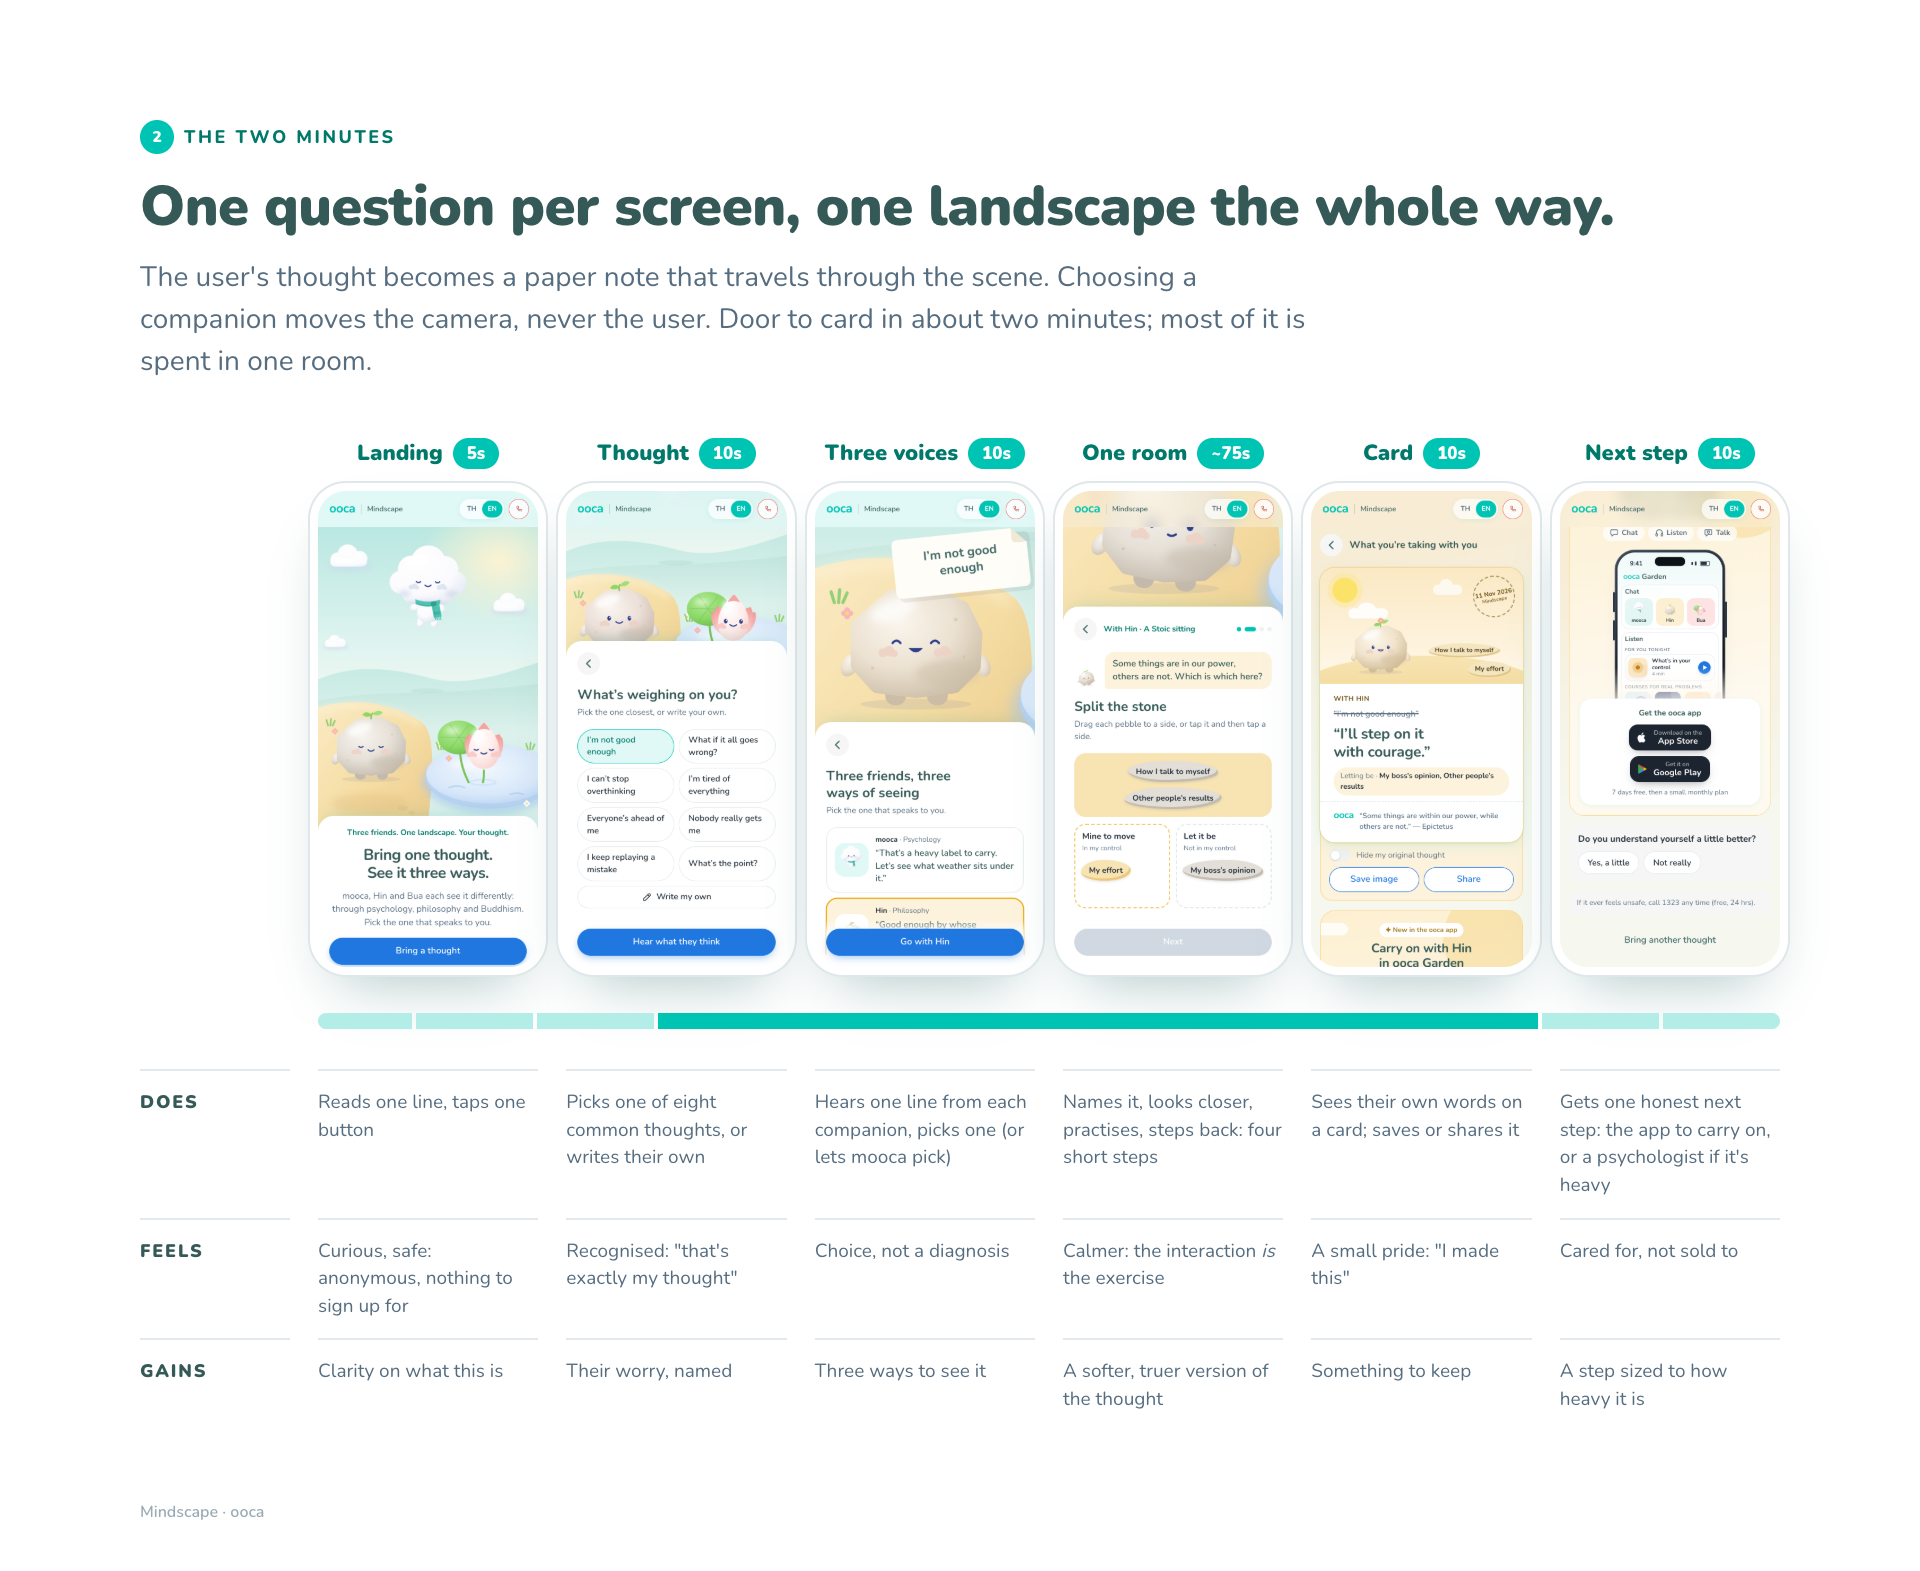
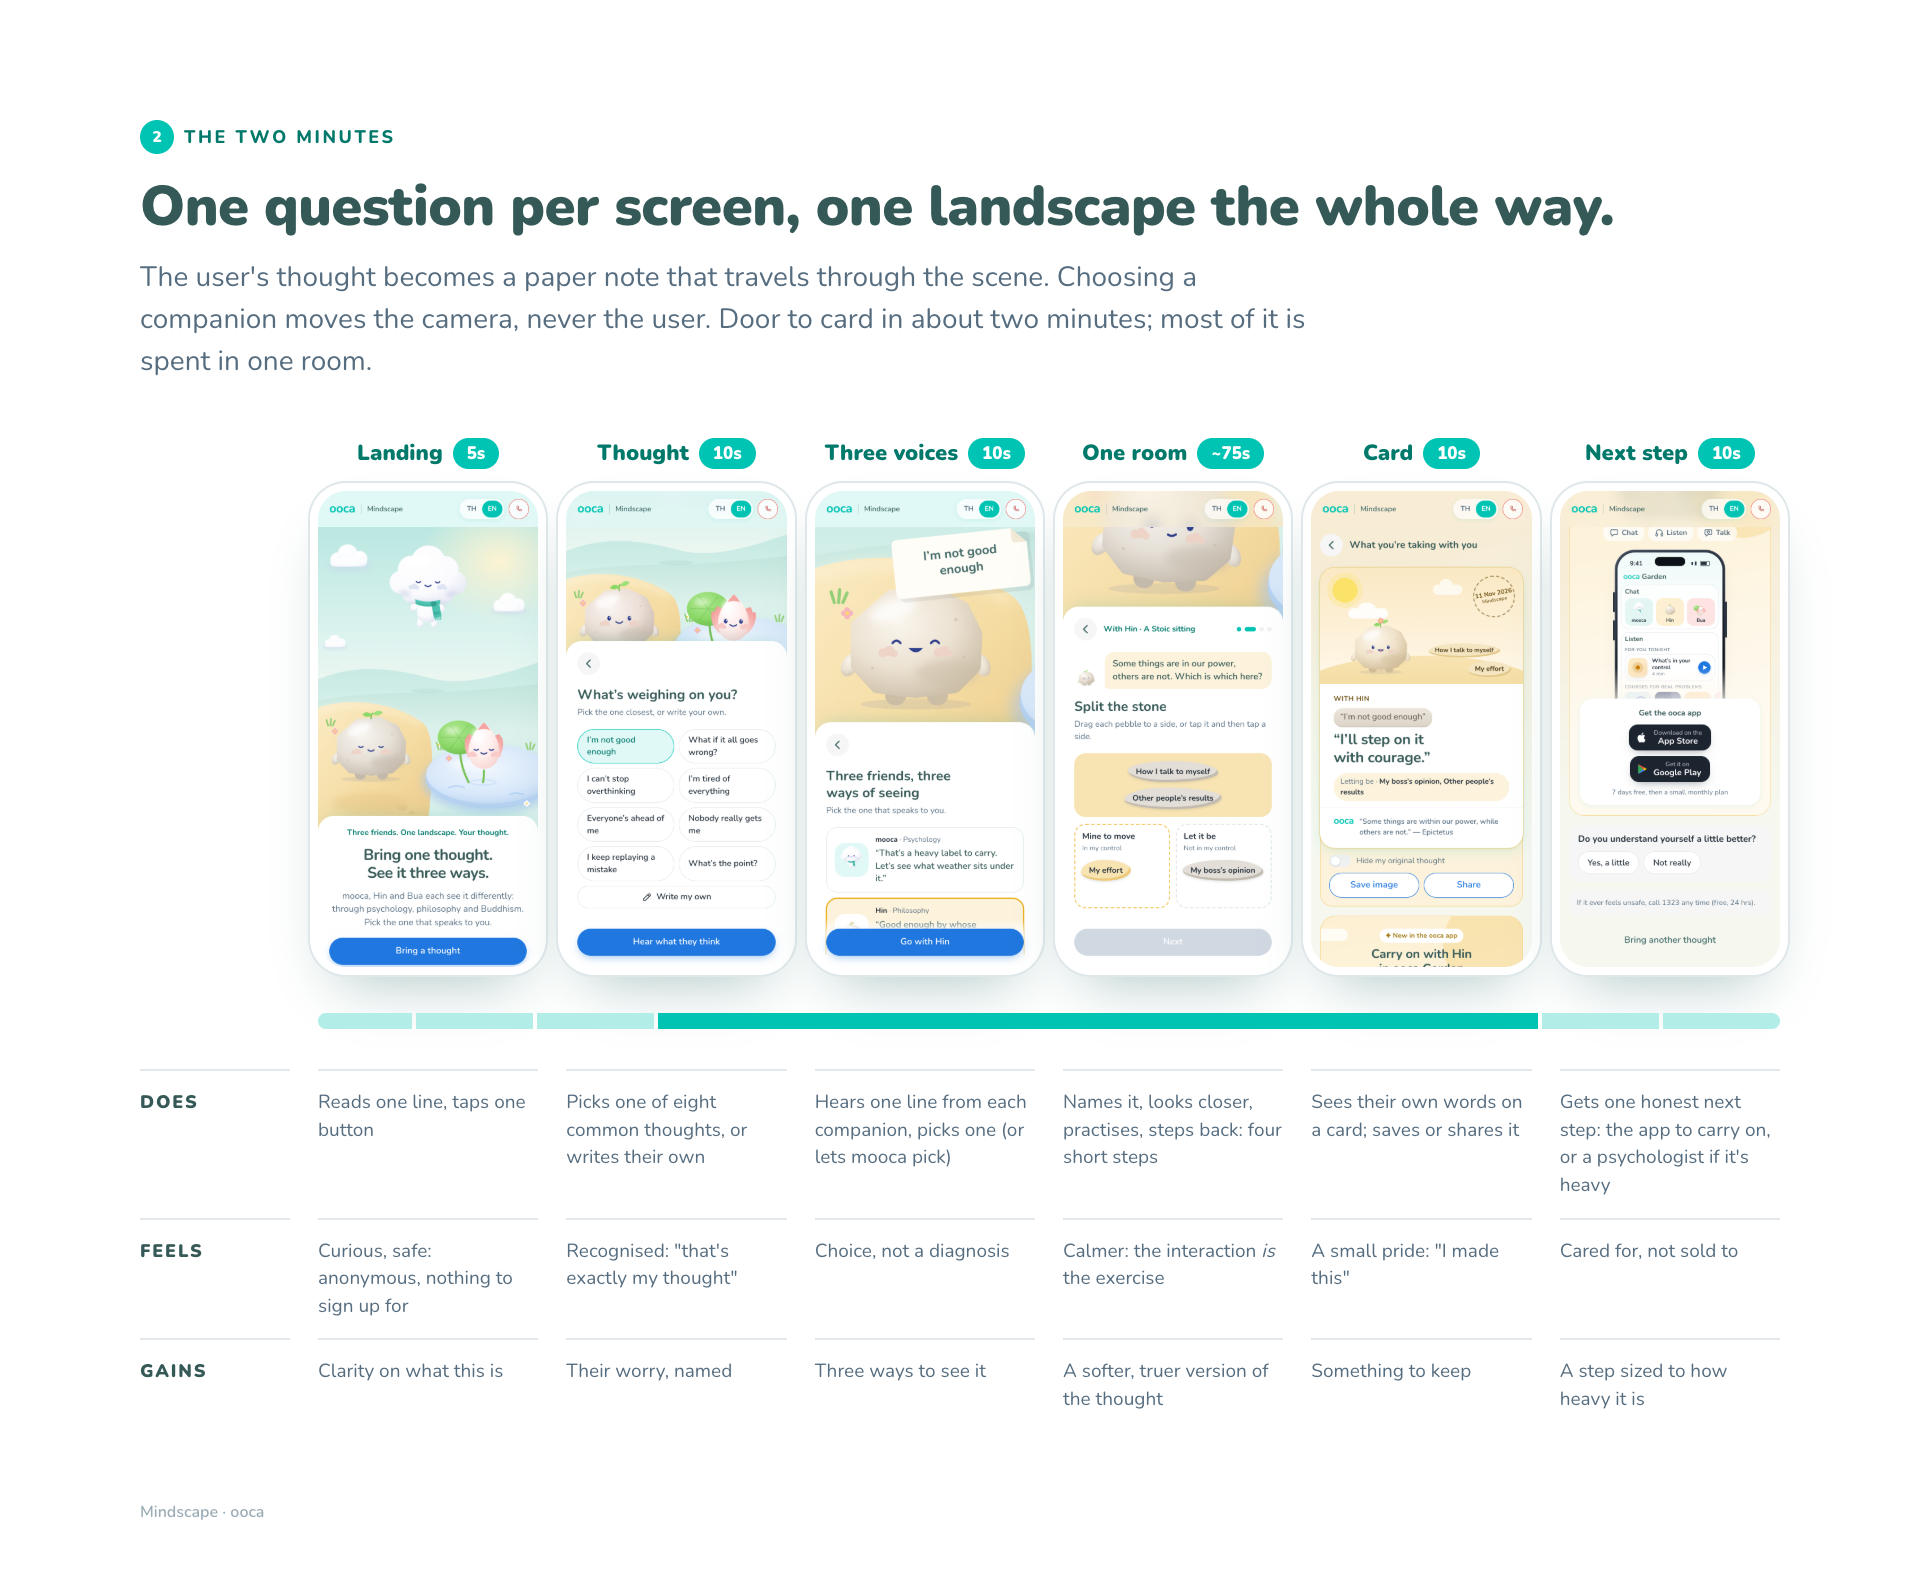
Hin's card sets the thought on a stone instead of crossing it out
Hin's room never calls the thought wrong; it sorts what's yours and how you'll act.
The thought now sits on a stepping stone, so "I'll step on it" points at it.
Only mooca, whose room reframes the thought, still crosses it out.

Changed region(s): [[0.6875, 0.4367, 0.8125, 0.6238]]

diff --git a/src/rooms/end-card.tsx b/src/rooms/end-card.tsx
@@ -30,7 +30,7 @@ export interface EndCard {
   postcard: {
     /** the thought as it came in: crossed out where it changed (mooca, Hin), just let drift (Bua) */
     before: string
-    beforeStyle: 'crossed' | 'drift'
+    beforeStyle: 'crossed' | 'drift' | 'stone'
     after: string
     detail?: { label: string; value: string }
     line: string
@@ -121,7 +121,7 @@ export function endCard(who: 'mooca' | 'hin' | 'bua', r: Results, lang: Lang, th
       rows,
       postcard: {
         before: thought,
-        beforeStyle: 'crossed',
+        beforeStyle: 'stone',
         after,
         detail: letBe.length ? { label: T(hin.letLabel), value: letBe.join(', ') } : undefined,
         line: `“${T(hin.quote)}” ${T(hin.quoteShort)}`,

diff --git a/src/rooms/Postcard.tsx b/src/rooms/Postcard.tsx
@@ -87,6 +87,8 @@ const Postcard = forwardRef<HTMLDivElement, Props>(function Postcard({ lang, who
         <span className="pc__with">{fill(lang === 'th' ? ms.withLabel.th : ms.withLabel.en, { name })}</span>
         {hideBefore ? null : p.beforeStyle === 'crossed' ? (
           <s className="pc__before">“{p.before}”</s>
+        ) : p.beforeStyle === 'stone' ? (
+          <span className="pc__before pc__before--stone">“{p.before}”</span>
         ) : (
           <span className="pc__before pc__before--drift">〜 “{p.before}”</span>
         )}

diff --git a/src/mindscape.css b/src/mindscape.css
@@ -2132,6 +2132,16 @@ html:lang(th) .pc__after {
   font-style: italic;
   opacity: 0.75;
 }
+/* Hin doesn't cross it out either: the thought is the stone you step on, so it sits on a pebble */
+.pc__before--stone {
+  align-self: flex-start;
+  max-width: 100%;
+  padding: 5px 12px;
+  border-radius: 999px;
+  background: linear-gradient(180deg, #ece6dc, #ddd5c8);
+  color: #5b5348;
+  box-shadow: 0 2px 0 #cfc6b7;
+}
 
 /* Hin's place: a warm hill, Hin on it, and your stepping stones leading away */
 .pc__hill--earth {
